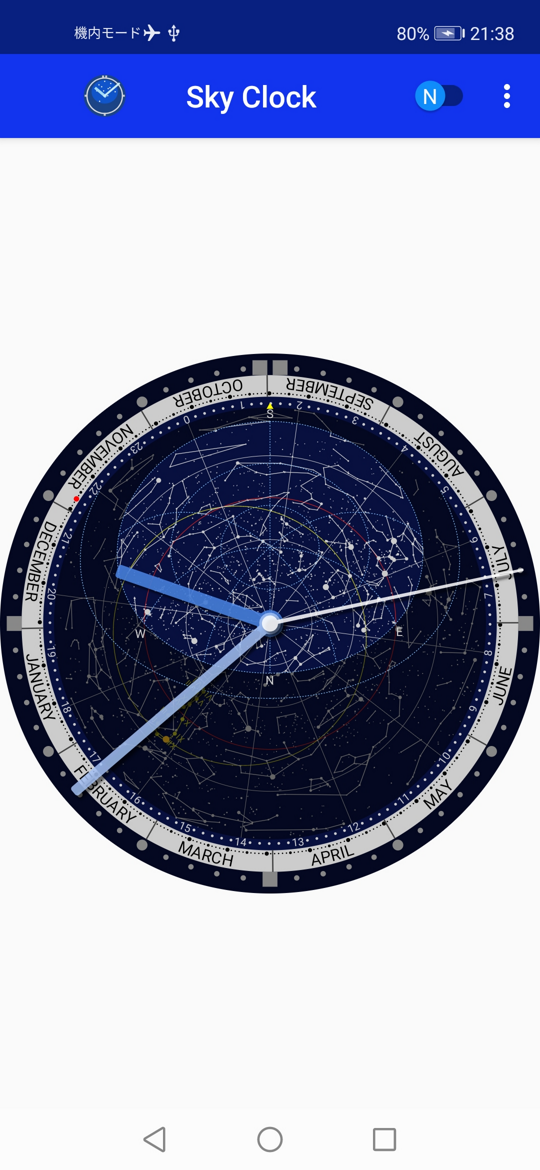
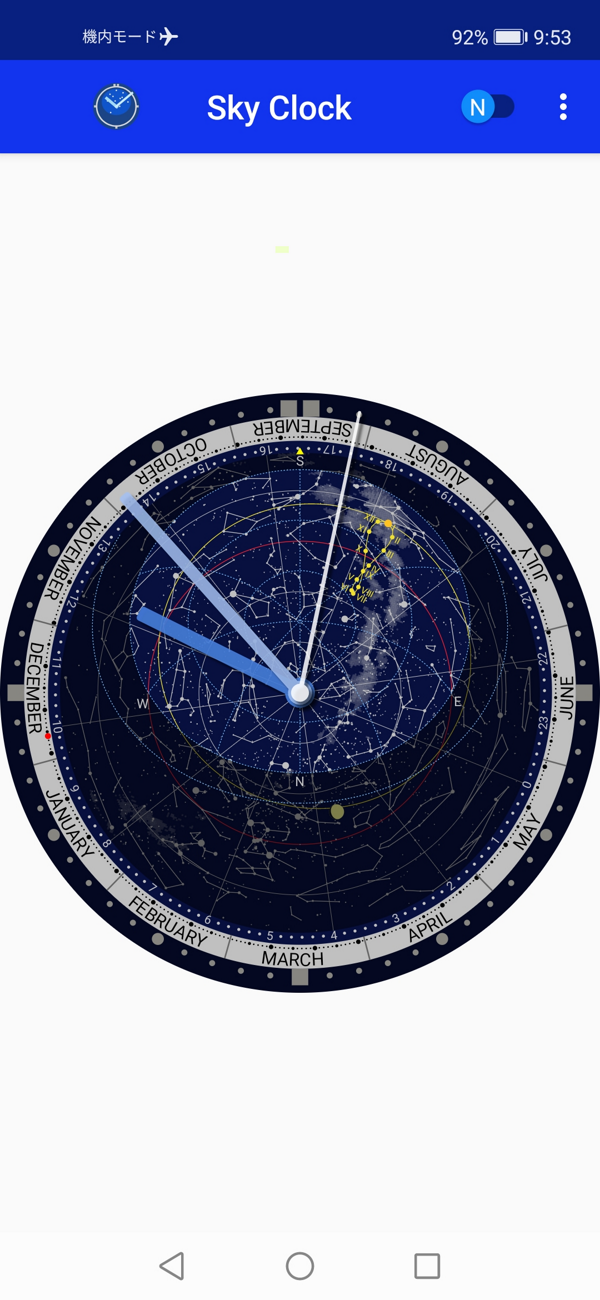
Updated contents, and added pages of Sky Clock lite.

Changed region(s): [[0.0296, 0.3077, 0.9778, 0.7692], [0.7407, 0.0, 0.9481, 0.0615]]

diff --git a/skyclock-ja.html b/skyclock-ja.html
@@ -30,11 +30,12 @@
         <ul>
           <li><strong>標準時：</strong>現在地の標準時が分かります。赤い点（現在の日付）の位置の赤経の値になります。</li>
           <li><strong>地方恒星時：</strong>地方恒星時が分かります。黄色の三角形が示します。</li>
-          <li><strong>星座早見盤モード：</strong>星座早見盤として使うことができます。太陽を動かすことにより、日時が変化します（恒星時は固定）。赤い点を動かすことで、日と恒星時が変化します（太陽時は固定）。日付リングを回すことで太陽時と恒星時が変化します（日は固定）。</li>
+          <li><strong>星座早見盤モード：</strong>星座早見盤として使うことができます。太陽を動かすことにより、日時が変化します（恒星時は固定）。赤い点を動かすことで、日と恒星時が変化します（太陽時は固定）。赤経目盛りを回すことで太陽時と恒星時が変化します（日は固定）。</li>
           <li><strong>GPSが利用可：</strong>GPSを観測位置設定に使えます。</li>
           <li><strong>6等星：</strong>6等星より明るい星を全て表示します。</li>
           <li><strong>星座線：</strong>星座線が表示されます。</li>
           <li><strong>太陽とアナレンマ：</strong>太陽とアナレンマを表示します。</li>
+          <li><strong>月と月相：</strong>月の位置と月相を表示します。</li>
           <li><strong>天文薄明：</strong>−18°の高度線で天文薄明の時間を確認できます。</li>
           <li><strong>自動アップデート：</strong>表示は自動的にアップデートされます。</li>
           <li><strong>ウィジェット：</strong>ウィジェットが利用できます。</li>
@@ -56,35 +57,41 @@
         <h4>星を動かす（太陽は動かさない）</h4>
         <p>赤い点をスワイプします。</p>
         <h4>太陽と星を動かす</h4>
-        <p>日付リングをスワイプします。</p>
+        <p>赤経リングをスワイプします。</p>
       </section>
       <section>
         <h3>更新履歴</h3>
+        <h4>9 (5.0)</h4>
+        <p>2020年12月28日 10時00分 (CET)</p>
+        <p>天の川と月を追加しました。</p>
+        <h4>8 (4.2)</h4>
+        <p>2020年12月16日 7時47分 (CET)</p>
+        <p>緯度・経度の入力においてカンマを小数点として受け付けるようにしました。</p>
         <h4>7 (4.1)</h4>
-        <p>2020年11月29日) 7時59分 (CET)</p>
+        <p>2020年11月29日 7時59分 (CET)</p>
         <p>位置情報サービスリクエストの問題と小数点の問題（小数点にカンマが用いられる地域で発生）を解決しました。</p>
         <h4>6 (4.0)</h4>
-        <p>2020年11月28日) 2時14分 (CET)</p>
+        <p>2020年11月28日 2時14分 (CET)</p>
         <p>広告バナーが追加されました。時計の針の形が新しくなりました。</p>
         <h4>5 (3.0)</h4>
-        <p>2020年11月20日) 9時22分 (CET)</p>
+        <p>2020年11月20日 9時22分 (CET)</p>
         <p>ウィジェットが利用可能になりました。</p>
         <h4>3 (2.1)</h4>
-        <p>2020年11月12日) 11時00分 (CET)</p>
+        <p>2020年11月12日 11時00分 (CET)</p>
         <p>不具合の修正（時計の針の再表示後にベースパネルの更新がなかった）</p>
         <h4>2 (2.0)</h4>
-        <p>2020年11月11日) 9時36分 (CET)</p>
+        <p>2020年11月11日 9時36分 (CET)</p>
         <p>星座早見盤モードを追加しました。</p>
         <h4>1 (1.0)</h4>
-        <p>2020年11月4日) 10時13分 (CET)</p>
+        <p>2020年11月4日 10時13分 (CET)</p>
         <p>最初のリリースです。</p>
       </section>
       <section>
         <h3 id="privacy_policy">プライバシポリシー</h3>
-        <p>最終更新：2020年11月20日</p>
+        <p>最終更新：2020年12月28日</p>
         <p>本アプリのご利用に当たりまして、このプライバシポリシーにて個人情報の扱いをご確認下さい。</p>
           <h4>ユーザのデータの収集</h4>
-          <p>本アプリの開発元は個人情報を収集しません。ただし、サードパーティの広告サービス（Google AdMob™）を利用しており、そのサービスが個人情報を収集することがあります。そのプライバシポリシーにつきましては、<a href="https://policies.google.com/privacy">Google privacy polcy</a>でご確認下さい。</p>
+          <p>本アプリの開発元は個人情報を収集しません。ただし、サードパーティの広告サービス（Google AdMob™）を利用しており、そのサービスが個人情報を収集することがあります。そのプライバシポリシーにつきましては、<a href="https://policies.google.com/privacy">Google privacy policy</a>でご確認下さい。</p>
           <h4>追加の権限</h4>
           <p>本アプリは、許可が与えられた場合のみ、位置情報を利用します。そのデータが他のアプリやサービスで利用されることはありません。
 広告バナーの表示のためにインターネットが利用されます。</p>

diff --git a/skyclocklite-ja.html b/skyclocklite-ja.html
@@ -1,0 +1,73 @@
+<!DOCTYPE html>
+<html lang="ja">
+  <head>
+    <link rel="icon" type="image/x-icon" href="favicon.ico">
+    <link rel="stylesheet" type="text/css" href="base-ja.css">
+    <title>Sky Clock lite</title>
+  </head>
+  <body>
+    <nav>
+      <h1><a href="index-ja.html"><img src="withlet11_full_logo.png" width="240" alt="Withlet11"></a></h1>
+      <p><a href="skyclocklite.html">EN</a> | <span class="selected">JP</span></p>
+    </nav>
+    <article id="container">
+      <h2>Sky Clock lite</h2>
+        <figure><img src="skyclocklite_view.png" alt="skyclock screenshot"></figure>
+      <section>
+        <p>これはAndroid用の星座早見盤付き時計ウィジェットです。星座早見盤は緯度と経度を設定することで、現在地における現在の空を表示します。北天と南天を切り替えることができます。</p>
+        <p><a href='https://play.google.com/store/apps/details?id=io.github.withlet11.skyclock&pcampaignid=pcampaignidMKT-Other-global-all-co-prtnr-py-PartBadge-Mar2515-1'><img alt='Get it on Google Play' src='https://play.google.com/intl/en_us/badges/static/images/badges/en_badge_web_generic.png' width='160'/></a></p>
+      </section>
+      <section>
+        <h3>システム要件</h3>
+        <p>API 26 (Android 8.0) もしくは、それ以降。</p>
+      </section>
+      <section>
+        <h3>使用許諾</h3>
+        <p>このソフトの使用許諾はMITライセンスです。 [<a href="http://opensource.org/licenses/mit-license.php">http://opensource.org/licenses/mit-license.php</a>]</p>
+      </section>
+      <section>
+        <h3>特徴</h3>
+        <ul>
+          <li><strong>標準時：</strong>現在地の標準時が分かります。赤い点（現在の日付）の位置の赤経の値になります。</li>
+          <li><strong>地方恒星時：</strong>地方恒星時が分かります。黄色の三角形が示します。</li>
+          <li><strong>GPSが利用可：</strong>GPSを観測位置設定に使えます。</li>
+          <li><strong>6等星：</strong>6等星より明るい星を全て表示します。</li>
+          <li><strong>星座線：</strong>星座線が表示されます。</li>
+          <li><strong>太陽とアナレンマ：</strong>太陽とアナレンマを表示します。</li>
+          <li><strong>月と月相：</strong>月の位置と月相を表示します。</li>
+          <li><strong>天文薄明：</strong>−18°の高度線で天文薄明の時間を確認できます。</li>
+          <li><strong>広告無し：</strong>広告はありません。</li>
+        </ul>
+      </section>
+      <section>
+        <h3>使い方</h3>
+        <h4>ウィジェットと設定</h4>
+        <p>Sky Clock liteのウィジェットをホーム画面に置いて下さい。ウィジェットもしくはアイコンをタップすると、設定画面が表示されます。ウィジェットの更新は時計が10秒ごと、星座早見盤が1分ごとに行われるため、設定がウィジェットに反映されるまでに時間がかかります。</p>
+      </section>
+      <section>
+        <h3>更新履歴</h3>
+        <h4>1 (1.0)</h4>
+        <p>2020年12月28日 9時00分 (CET)</p>
+        <p>最初のリリースです。</p>
+      </section>
+      <section>
+        <h3 id="privacy_policy">プライバシポリシー</h3>
+        <p>最終更新：2020年12月28日</p>
+        <p>本アプリのご利用に当たりまして、このプライバシポリシーにて個人情報の扱いをご確認下さい。</p>
+          <h4>ユーザのデータの収集</h4>
+          <p>本アプリの開発元は個人情報を収集しません。</p>
+          <h4>追加の権限</h4>
+          <p>本アプリは、許可が与えられた場合のみ、位置情報を利用します。そのデータが他のアプリやサービスで利用されることはありません。</p>
+          <h4>変更</h4>
+          <p>このプライバシポリシーは何らかの理由により変更されることがあります。</p>
+          <h4>利用にあたっての同意</h4>
+          <p>本プライバシポリシー及びサードパーティのプライバシポリシーに同意の上でご利用下さい。もし、同意いただけない場合は本アプリをアンインストールして下さい。</p>
+          <h4>お問い合わせ</h4>
+          <p>プライバシポリシーにつきましてご質問がある場合は<a href="mailto:withlet11@gmail.com">withlet11@gmail.com</a>にお問い合わせ下さい。</p>
+      </section>
+    </article>
+    <footer>
+      <p>Copyright 2020 Yasuhiro Yamakawa &lt;<a href="mailto:withlet11@gmail.com">withlet11@gmail.com</a>&gt;</p>
+    </footer>
+  </body>
+</html>

diff --git a/skyclocklite.html b/skyclocklite.html
@@ -1,0 +1,73 @@
+<!DOCTYPE html>
+<html lang="en">
+  <head>
+    <link rel="icon" type="image/x-icon" href="favicon.ico">
+    <link rel="stylesheet" type="text/css" href="base.css">
+    <title>Sky Clock lite</title>
+  </head>
+  <body>
+    <nav>
+      <h1><a href="index.html"><img src="withlet11_full_logo.png" width="240" alt="Withlet11"></a></h1>
+      <p><span class="selected">EN</span> | <a href="skyclocklite-ja.html">JP</a></p>
+    </nav>
+    <article id="container">
+      <h2>Sky Clock lite</h2>
+        <figure><img src="skyclocklite_view.png" alt="skyclock screenshot"></figure>
+      <section>
+        <p>This is a clock app widget with a planisphere for Android. The planisphere shows the current sky at the observation location by setting the latitude and the longitude. You can switch the northern and southern celestial hemispheres.</p>
+        <p><a href='https://play.google.com/store/apps/details?id=io.github.withlet11.skyclock&pcampaignid=pcampaignidMKT-Other-global-all-co-prtnr-py-PartBadge-Mar2515-1'><img alt='Get it on Google Play' src='https://play.google.com/intl/en_us/badges/static/images/badges/en_badge_web_generic.png' width='160'/></a></p>
+      </section>
+      <section>
+        <h3>Requirement</h3>
+        <p>API 26 (Android 8.0) or later</p>
+      </section>
+      <section>
+        <h3>License</h3>
+        <p>This software is released under the MIT License. [<a href="http://opensource.org/licenses/mit-license.php">http://opensource.org/licenses/mit-license.php</a>]</p>
+      </section>
+      <section>
+        <h3>Features</h3>
+        <ul>
+          <li><strong>Standard Time: </strong>You can read the standard time of your time zone. It is indicated by a red point (today's date) as the value of right ascension.</li>
+          <li><strong>Local Sidereal Time: </strong>You can read the local sidereal time. It is indicated by a small yellow triangle.</li>
+          <li><strong>GPS Available: </strong>You can use the GPS for setting your location.</li>
+          <li><strong>Magnitude 6 star: </strong>The all stars that are brighter than a magnitude 6 star are displayed.</li>
+          <li><strong>Constellation lines: </strong>Constellation lines are displayed.</li>
+          <li><strong>The Sun and Analemma: </strong>The position of the Sun is displayed with analemma.</li>
+          <li><strong>The Moon and the lunar phase: </strong>The position of the Moon is displayed with the lunar phase.</li>
+          <li><strong>Astronomical Twilight: </strong>You can check astronomical twilight time with altitude line of −18°.</li>
+          <li><strong>No ads: </strong>This app doesn't display any ads.</li>
+        </ul>
+      </section>
+      <section>
+        <h3>Usage</h3>
+        <h4>App widget and configure</h4>
+        <p>Please put an app widget of Sky Clock lite at the home screen. Tap an app widget or an icon of Sky Clock lite to show a screen for the configuration. App widgets are not updated soon after changes of settings. The clock is update every 10 seconds and the planispher is updated every minute.</p>
+      </section>
+      <section>
+        <h3>Update History</h3>
+        <h4>1 (1.0)</h4>
+        <p>28 Dec 2020 9:00 (CET)</p>
+        <p>This is the first release.</p>
+      </section>
+      <section>
+        <h3 id="privacy_policy">Privacy Policy</h3>
+        <p>Last update on 28 Dec 2020</p>
+        <p>In order to clarify what we do on this matter and how the information provided by the users are used is described in this privacy policy.</p>
+          <h4>User data collection</h4>
+          <p>We do not collect any user information including: names, phone numbers, e-mail addresses and passwords.</p>
+          <h4>Additional permissions</h4>
+          <p>This application accesses your geo-location information, only if you permit. That data is stored at your device only, and never provided to any other applications or services.</p>
+          <h4>Changes</h4>
+          <p>This Privacy Policy may be updated from time to time for any reason.</p>
+          <h4>Your Consent</h4>
+          <p>By using this app you consent to this Privacy Policy as well as all the 3rd party Privacy Policies mentioned above. If you disagree with this Privacy Policy or the 3rd party Privacy Policies you can uninstall this app.</p>
+          <h4>Contact Us</h4>
+          <p>If there are any questions regarding this Privacy Policy you may contact us by email: <a href="mailto:withlet11@gmail.com">withlet11@gmail.com</a></p>
+      </section>
+    </article>
+    <footer>
+      <p>Copyright 2020 Yasuhiro Yamakawa &lt;<a href="mailto:withlet11@gmail.com">withlet11@gmail.com</a>&gt;</p>
+    </footer>
+  </body>
+</html>

diff --git a/skyclock.html b/skyclock.html
@@ -30,11 +30,12 @@
         <ul>
           <li><strong>Standard Time: </strong>You can read the standard time of your time zone. It is indicated by a red point (today's date) as the value of right ascension.</li>
           <li><strong>Local Sidereal Time: </strong>You can read the local sidereal time. It is indicated by a small yellow triangle.</li>
-          <li><strong>Planisphere mode: </strong>You can use as a planisphere. You can change date and solar time by moving the Sun (sidereal time is fixed), change date and sidereal time by moving the red spot (solar time is fixed), or change solar and sidereal time by rotating the ring of date (date is fixed).</li>
+          <li><strong>Planisphere mode: </strong>You can use as a planisphere. You can change date and solar time by moving the Sun (sidereal time is fixed), change date and sidereal time by moving the red spot (solar time is fixed), or change solar and sidereal time by rotating the ring of right ascension (date is fixed).</li>
           <li><strong>GPS Available: </strong>You can use the GPS for setting your location.</li>
-          <li><strong>Magnitude 6 star: </strong>The all stars that are brighter than a magnitude 6 star are displayed.</li>
+          <li><strong>Magnitude 6 star: </strong>All of the stars that are brighter than a magnitude 6 star are displayed.</li>
           <li><strong>Constellation lines: </strong>Constellation lines are displayed.</li>
           <li><strong>The Sun and Analemma: </strong>The position of the Sun is displayed with analemma.</li>
+          <li><strong>The Moon and the lunar phase: </strong>The position of the Moon is displayed with the lunar phase.</li>
           <li><strong>Astronomical Twilight: </strong>You can check astronomical twilight time with altitude line of −18°.</li>
           <li><strong>Automatic Update: </strong>The view is updated automatically.</li>
           <li><strong>App Widget: </strong>App Widget is available.</li>
@@ -54,12 +55,18 @@
         <h4>To move the Sun only (Stars don't move)</h4>
         <p>Swipe the Sun or analemma.</p>
         <h4>To move stars only (The Sun doesn't move)</h4>
-        <p>Swipe the red spot</p>
+        <p>Swipe the red spot.</p>
         <h4>To move the Sun and stars together</h4>
-        <p>Swipe the ring of date</p>
+        <p>Swipe the ring of right ascension.</p>
       </section>
       <section>
         <h3>Update History</h3>
+        <h4>9 (5.0)</h4>
+        <p>28 Dec 2020 10:00 (CET)</p>
+        <p>Added the Milky Way and the Moon.</p>
+        <h4>8 (4.2)</h4>
+        <p>16 Dec 2020 7:47 (CET)</p>
+        <p>Modified to accept comma as decimal point in latitude/longitude fields.</p>
         <h4>7 (4.1)</h4>
         <p>29 Nov 2020 7:59 (CET)</p>
         <p>Fixed a location service request issue and a decimal point issue (comma not accepted but displayed).</p>
@@ -81,7 +88,7 @@
       </section>
       <section>
         <h3 id="privacy_policy">Privacy Policy</h3>
-        <p>Last update on 20 Nov 2020</p>
+        <p>Last update on 28 Dec 2020</p>
         <p>In order to clarify what we do on this matter and how the information provided by the users are used is described in this privacy policy.</p>
           <h4>User data collection</h4>
           <p>We do not collect any user information including: names, phone numbers, e-mail addresses and passwords. However, we use 3rd party ad service (Google AdMob™) in this app, and that service may collect your information. The privacy policy can be read on the following page: <a href="https://policies.google.com/privacy">Google privacy policy</a></p>

diff --git a/index-ja.html b/index-ja.html
@@ -14,9 +14,13 @@
       <h2>Androidアプリ</h2>
       <section>
         <h3><a href="skyclock-ja.html">Sky Clock</a></h3>
-        <p>これはAndroid用の星座早見盤付き時計アプリです。星座早見盤は緯度と経度を設定することで、現在地における現在の空を表示します。北天と南天を切り替えることができます。</p>
+        <p>Android用の星座早見盤付き時計アプリです。星座早見盤は緯度と経度を設定することで、現在地における現在の空を表示します。北天と南天を切り替えることができます。通常の星座早見盤としても機能します。</p>
         <p><a href='https://play.google.com/store/apps/details?id=io.github.withlet11.skyclock&pcampaignid=pcampaignidMKT-Other-global-all-co-prtnr-py-PartBadge-Mar2515-1'><img alt='Get it on Google Play' src='https://play.google.com/intl/en_us/badges/static/images/badges/en_badge_web_generic.png' width='160'/></a></p>
         <img src="skyclock_view.png" width="480" height="480" alt="skyclock view">
+        <h3><a href="skyclocklite-ja.html">Sky Clock lite</a></h3>
+        <p>Android用の星座早見盤付き時計ウィジェットです。星座早見盤は緯度と経度を設定することで、現在地における現在の空を表示します。北天と南天を切り替えることができます。広告はありませんが、空の表示は現在の時刻に限定されています。</p>
+        <p><a href='https://play.google.com/store/apps/details?id=io.github.withlet11.skyclock&pcampaignid=pcampaignidMKT-Other-global-all-co-prtnr-py-PartBadge-Mar2515-1'><img alt='Get it on Google Play' src='https://play.google.com/intl/en_us/badges/static/images/badges/en_badge_web_generic.png' width='160'/></a></p>
+        <img src="skyclocklite_view.png" width="240" height="520" alt="skyclock view">
       </section>
     </article>
     <footer>

diff --git a/index.html b/index.html
@@ -17,6 +17,10 @@
         <p>This is a clock application with a planisphere for Android. The planisphere shows the current sky at the observation location by setting the latitude and the longitude. You can switch the northern and southern celestial hemispheres.</p>
         <p><a href='https://play.google.com/store/apps/details?id=io.github.withlet11.skyclock&pcampaignid=pcampaignidMKT-Other-global-all-co-prtnr-py-PartBadge-Mar2515-1'><img alt='Get it on Google Play' src='https://play.google.com/intl/en_us/badges/static/images/badges/en_badge_web_generic.png' width='160'/></a></p>
         <img src="skyclock_view.png" width="480" height="480" alt="skyclock view">
+        <h3><a href="skyclocklite.html">Sky Clock lite</a></h3>
+        <p>This is a clock app widget with a planisphere for Android. The planisphere shows the current sky at the observation location by setting the latitude and the longitude. You can switch the northern and southern celestial hemispheres. This app has no ads, but you cannot choose the date and time of observation.</p>
+        <p><a href='https://play.google.com/store/apps/details?id=io.github.withlet11.skyclock&pcampaignid=pcampaignidMKT-Other-global-all-co-prtnr-py-PartBadge-Mar2515-1'><img alt='Get it on Google Play' src='https://play.google.com/intl/en_us/badges/static/images/badges/en_badge_web_generic.png' width='160'/></a></p>
+        <img src="skyclocklite_view.png" width="240" height="520" alt="skyclock view">
       </section>
     </article>
     <footer>
